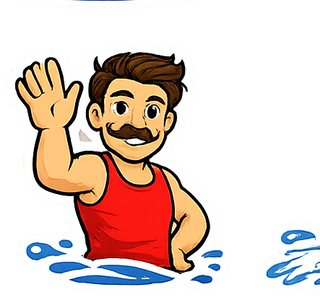
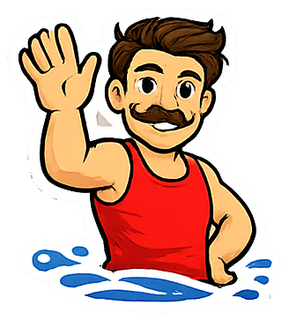
Правки после ревью: цена тест-дня «от», зазоры в шапке, чистка стикеров (FED-256)
- Тест-день: убрана точная цена → «от 12 000 ₽, детали и запись в боте»
- Шапка: разлеплены лого и меню (gap, компактнее шрифт/пункты, брейкпоинт 900px)
- Стикеры перечищены (keep-largest) — убраны прицепившиеся куски соседних стикеров

diff --git a/index.html b/index.html
@@ -89,13 +89,13 @@ window.dataLayer=window.dataLayer||[];function gtag(){dataLayer.push(arguments);
     padding:6px 14px;border-radius:999px;margin-bottom:16px;font-weight:700;letter-spacing:.2px}
   nav{position:sticky;top:0;z-index:50;background:rgba(255,255,255,.86);backdrop-filter:blur(10px);
     border-bottom:1px solid var(--line)}
-  nav .wrap{display:flex;align-items:center;justify-content:space-between;height:66px}
+  nav .wrap{display:flex;align-items:center;justify-content:space-between;gap:22px;height:66px}
   .logo{display:inline-flex;align-items:center;gap:11px;font-weight:800;font-size:20px;letter-spacing:.2px;color:var(--txt)}
   .logo img{width:42px;height:42px;border-radius:50%;display:block;box-shadow:0 2px 6px rgba(0,57,166,.18)}
   .logo span{color:var(--brand)}
-  .navlinks{display:flex;gap:24px;font-size:15px;color:var(--muted);font-weight:500}
+  .navlinks{display:flex;gap:18px;font-size:14px;color:var(--muted);font-weight:500;white-space:nowrap}
   .navlinks a:hover{color:var(--brand)}
-  @media(max-width:820px){.navlinks{display:none}}
+  @media(max-width:900px){.navlinks{display:none}}
   .hero{padding:56px 0 40px;text-align:center}
   .hero-badge{width:150px;height:150px;margin:0 auto 22px;border-radius:50%;display:block;
     filter:drop-shadow(0 10px 24px rgba(0,57,166,.28))}
@@ -170,7 +170,7 @@ window.dataLayer=window.dataLayer||[];function gtag(){dataLayer.push(arguments);
   <div class="logo"><img src="/logo-mascot.png" alt="Русский Лайнап — маскот: стойка на голове на электросёрфе" width="42" height="42">Русский <span>Лайнап</span></div>
   <div class="navlinks">
     <a href="#why">Почему</a>
-    <a href="#how">Как это работает</a>
+    <a href="#how">Как работает</a>
     <a href="#esurf">Электросёрф</a>
     <a href="#testday">Тест-день</a>
     <a href="#rent">Прокат</a>
@@ -328,7 +328,7 @@ window.dataLayer=window.dataLayer||[];function gtag(){dataLayer.push(arguments);
   <div class="cta-box">
     <h3>Записаться на тест-день</h3>
     <p class="sub" style="margin:10px 0 0">Бот задаст пару вопросов и передаст заявку нам — ответим лично.</p>
-    <p class="promo">Цена тест-дня: <b>12 000 ₽</b> · в боте можно получить промокод на скидку</p>
+    <p class="promo">Стоимость — <b>от 12 000 ₽</b>. Точную цену, дату и промокод узнавай в Telegram-боте.</p>
     <a href="#" class="btn js-bot" data-src="testday" style="margin-top:18px;width:100%;text-align:center">Записаться через бота</a>
   </div>
 </div></section>
